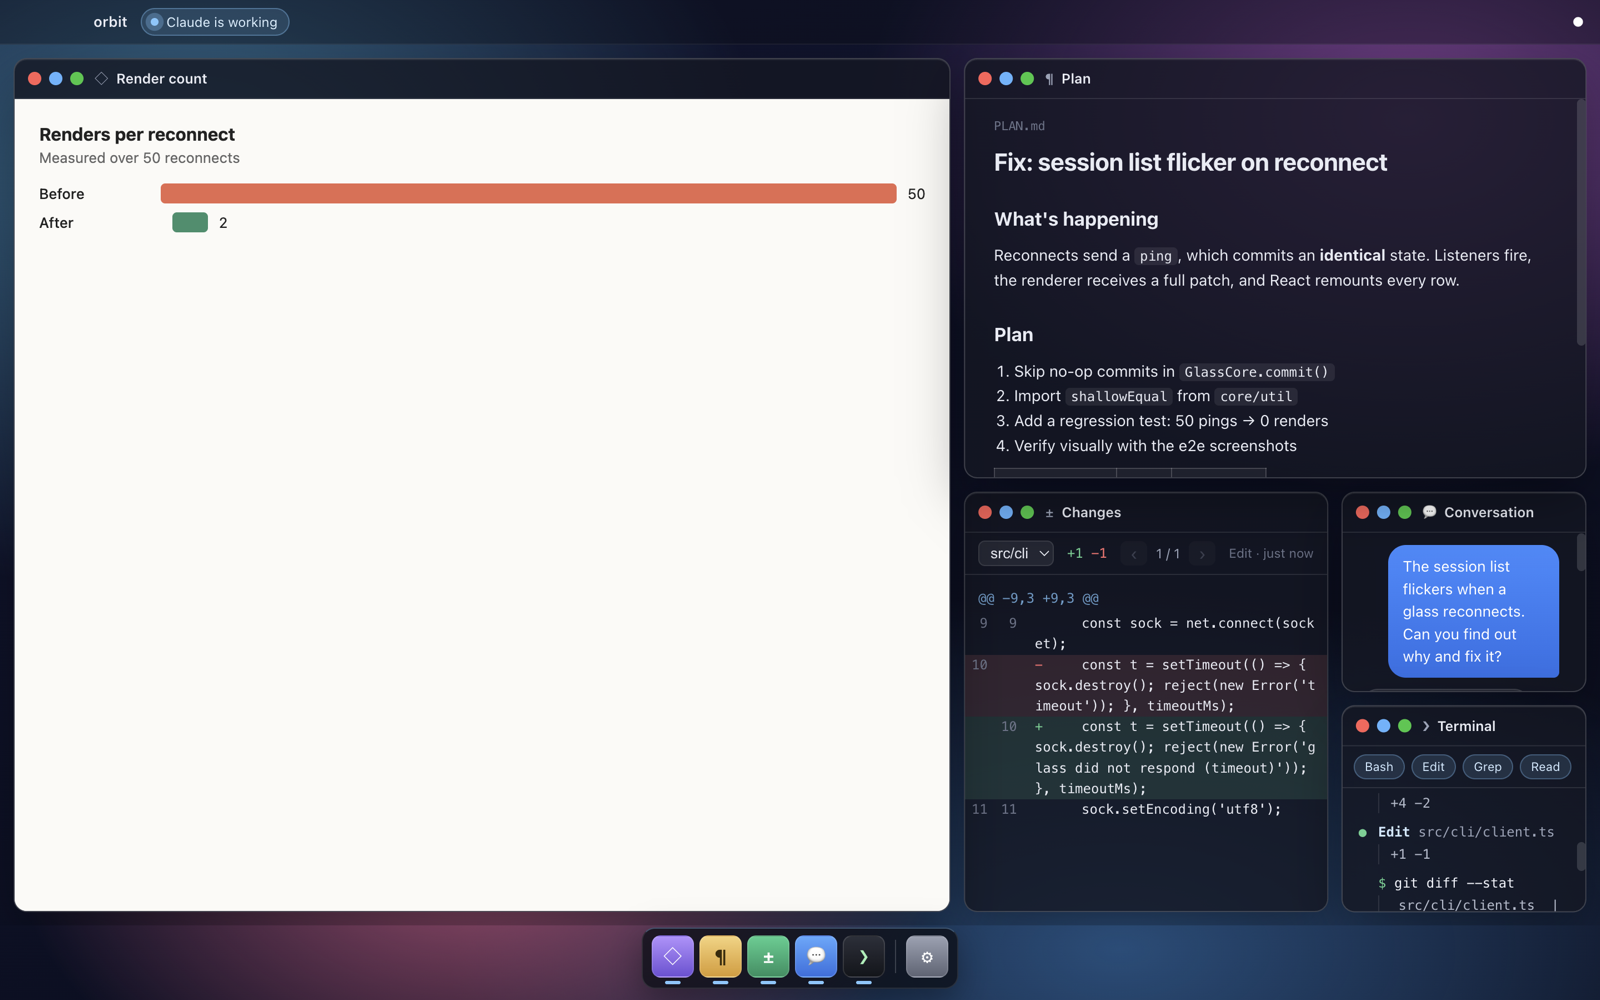
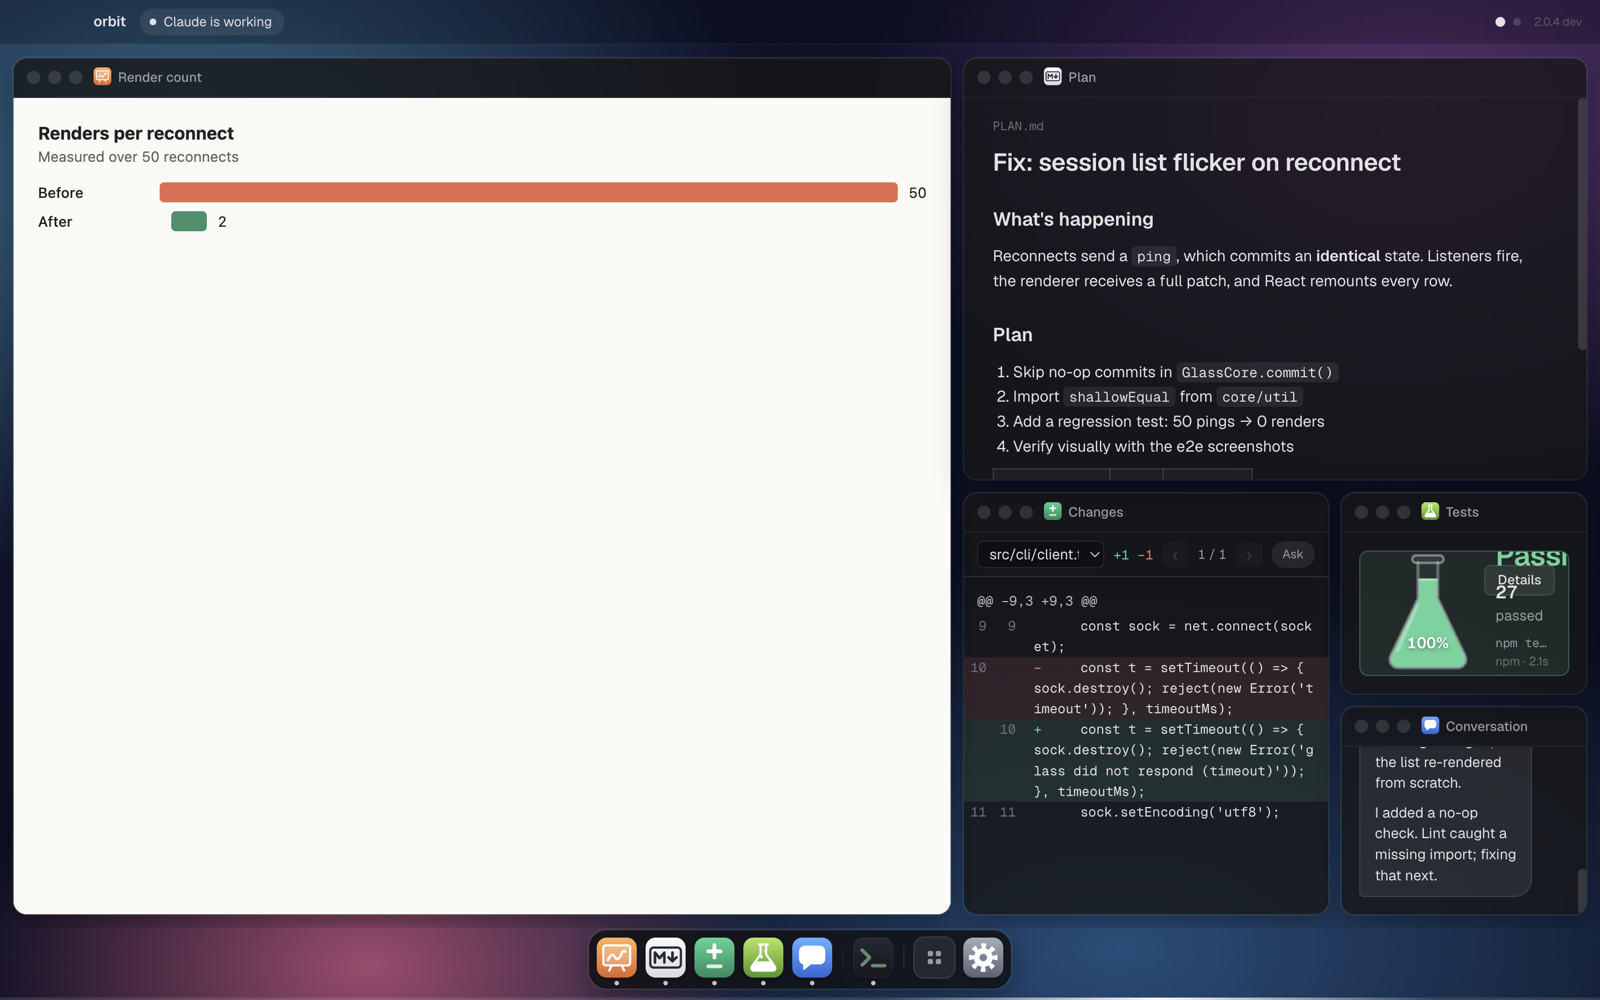
Changes fits narrow windows again; README media regenerated
A narrow Changes window drops the revision's time and shortens Ask about this
to Ask, so the file picker keeps its room. The README screenshots show the
current look.

diff --git a/src/apps/diff/view.css b/src/apps/diff/view.css
@@ -13,7 +13,9 @@
 .fdir { grid-column: 1; font-size: var(--text-size-xs); color: var(--text-3); overflow: hidden; text-overflow: ellipsis; white-space: nowrap; direction: rtl; text-align: left; }
 .fcount { grid-row: 1 / span 2; grid-column: 2; align-self: center; font-size: var(--text-size-xs); color: var(--text-2); background: var(--surface-hover); border-radius: var(--radius-pill); padding: 0 7px; font-variant-numeric: tabular-nums; }
 .d-main { flex: 1; min-width: 0; display: flex; flex-direction: column; }
-.d-bar { display: flex; align-items: center; gap: var(--space-4); padding: 7px var(--space-4); border-bottom: 1px solid var(--border); flex: none; }
+.d-bar { display: flex; align-items: center; gap: var(--space-4); padding: 7px var(--space-4); border-bottom: 1px solid var(--border); flex: none; min-width: 0; }
+.diff:not(.wide) .d-bar { gap: var(--space-3); }
+.diff:not(.wide) .d-bar select { flex: 1 1 60px; max-width: none; }
 .d-path { font: var(--text-size-sm) var(--font-mono); overflow: hidden; text-overflow: ellipsis; white-space: nowrap; min-width: 0; }
 .d-bar select { background: var(--surface-sunken); color: var(--text-1); border: 1px solid var(--border); border-radius: var(--radius-sm); padding: var(--space-0) var(--space-2); min-width: 0; max-width: 45%; font: inherit; }
 .d-stat { font: var(--text-size-sm) var(--font-mono); white-space: nowrap; }

diff --git a/src/apps/diff/view.tsx b/src/apps/diff/view.tsx
@@ -102,9 +102,9 @@ export default function DiffView({ state, run, width, session, host }: AppViewPr
             <span>{idx + 1} / {revs.length}</span>
             <button disabled={idx === revs.length - 1} onClick={() => run('select', { path: file, index: idx + 1 === revs.length - 1 ? -1 : idx + 1 })} aria-label="Next revision">›</button>
           </span>
-          <span className="d-when">{rev.source} · {timeAgo(rev.at)}</span>
+          {wide && <span className="d-when">{rev.source} · {timeAgo(rev.at)}</span>}
           <button className="d-attach" title="Attach this change to your next prompt (Claude reads it with what you say)"
-            onClick={() => host('attach', { label: `${file.split('/').pop()} · change ${idx + 1}/${revs.length}`, text: revisionText(shortPath(file, cwd), rev) })}>Ask about this</button>
+            onClick={() => host('attach', { label: `${file.split('/').pop()} · change ${idx + 1}/${revs.length}`, text: revisionText(shortPath(file, cwd), rev) })}>{wide ? 'Ask about this' : 'Ask'}</button>
         </div>
         {rev.note && <p className="d-note">{rev.note}</p>}
         <Hunks key={`${file}:${idx}:${rev.at}`} rev={rev} />

diff --git a/docs/plans/mods.md b/docs/plans/mods.md
@@ -74,7 +74,7 @@ Events, not Claude's memory, drive the signal layer and window order, so they're
       (a closed one stays closed; docked ones are lit, not moved; history mode never moves).
       With signals off, light means nothing. The guide lists what's on so Claude doesn't repeat it.
       Settings → Attention
-- [ ] Waiting → the Action app (Phase 2)
+- [x] Waiting → the Action app (Phase 2): a permission prompt brings its card to the front
 - [x] **Turn progress bar** (`turnProgress`, default on): a thin white line along the bottom while
       a turn runs. It sweeps, brightens on each model request (the mod's `step` event), fills by
       tasks done while Claude works through a list, and pauses while it waits on you
@@ -106,7 +106,7 @@ Events, not Claude's memory, drive the signal layer and window order, so they're
       `claude-glass action wait <id> --ms 700` (time inside `$` calls is free), so no server
 - [x] App questions: a two-way app's hook raises one with `glass.ask` (Phase 3), and Claude with
       its glass ask tool
-- [ ] Questions (AskUserQuestion): the experiment below
+- [x] Questions (AskUserQuestion): the experiment below (built; off by default)
 - [x] **Interrupt** (`interruptButton`, off by default): a Stop button in the top bar while
       Claude works. The glass queues a control (only its own window can, over IPC); the mod's
       background loop collects it with `claude-glass watch` (blocks on the socket up to 20s; only
